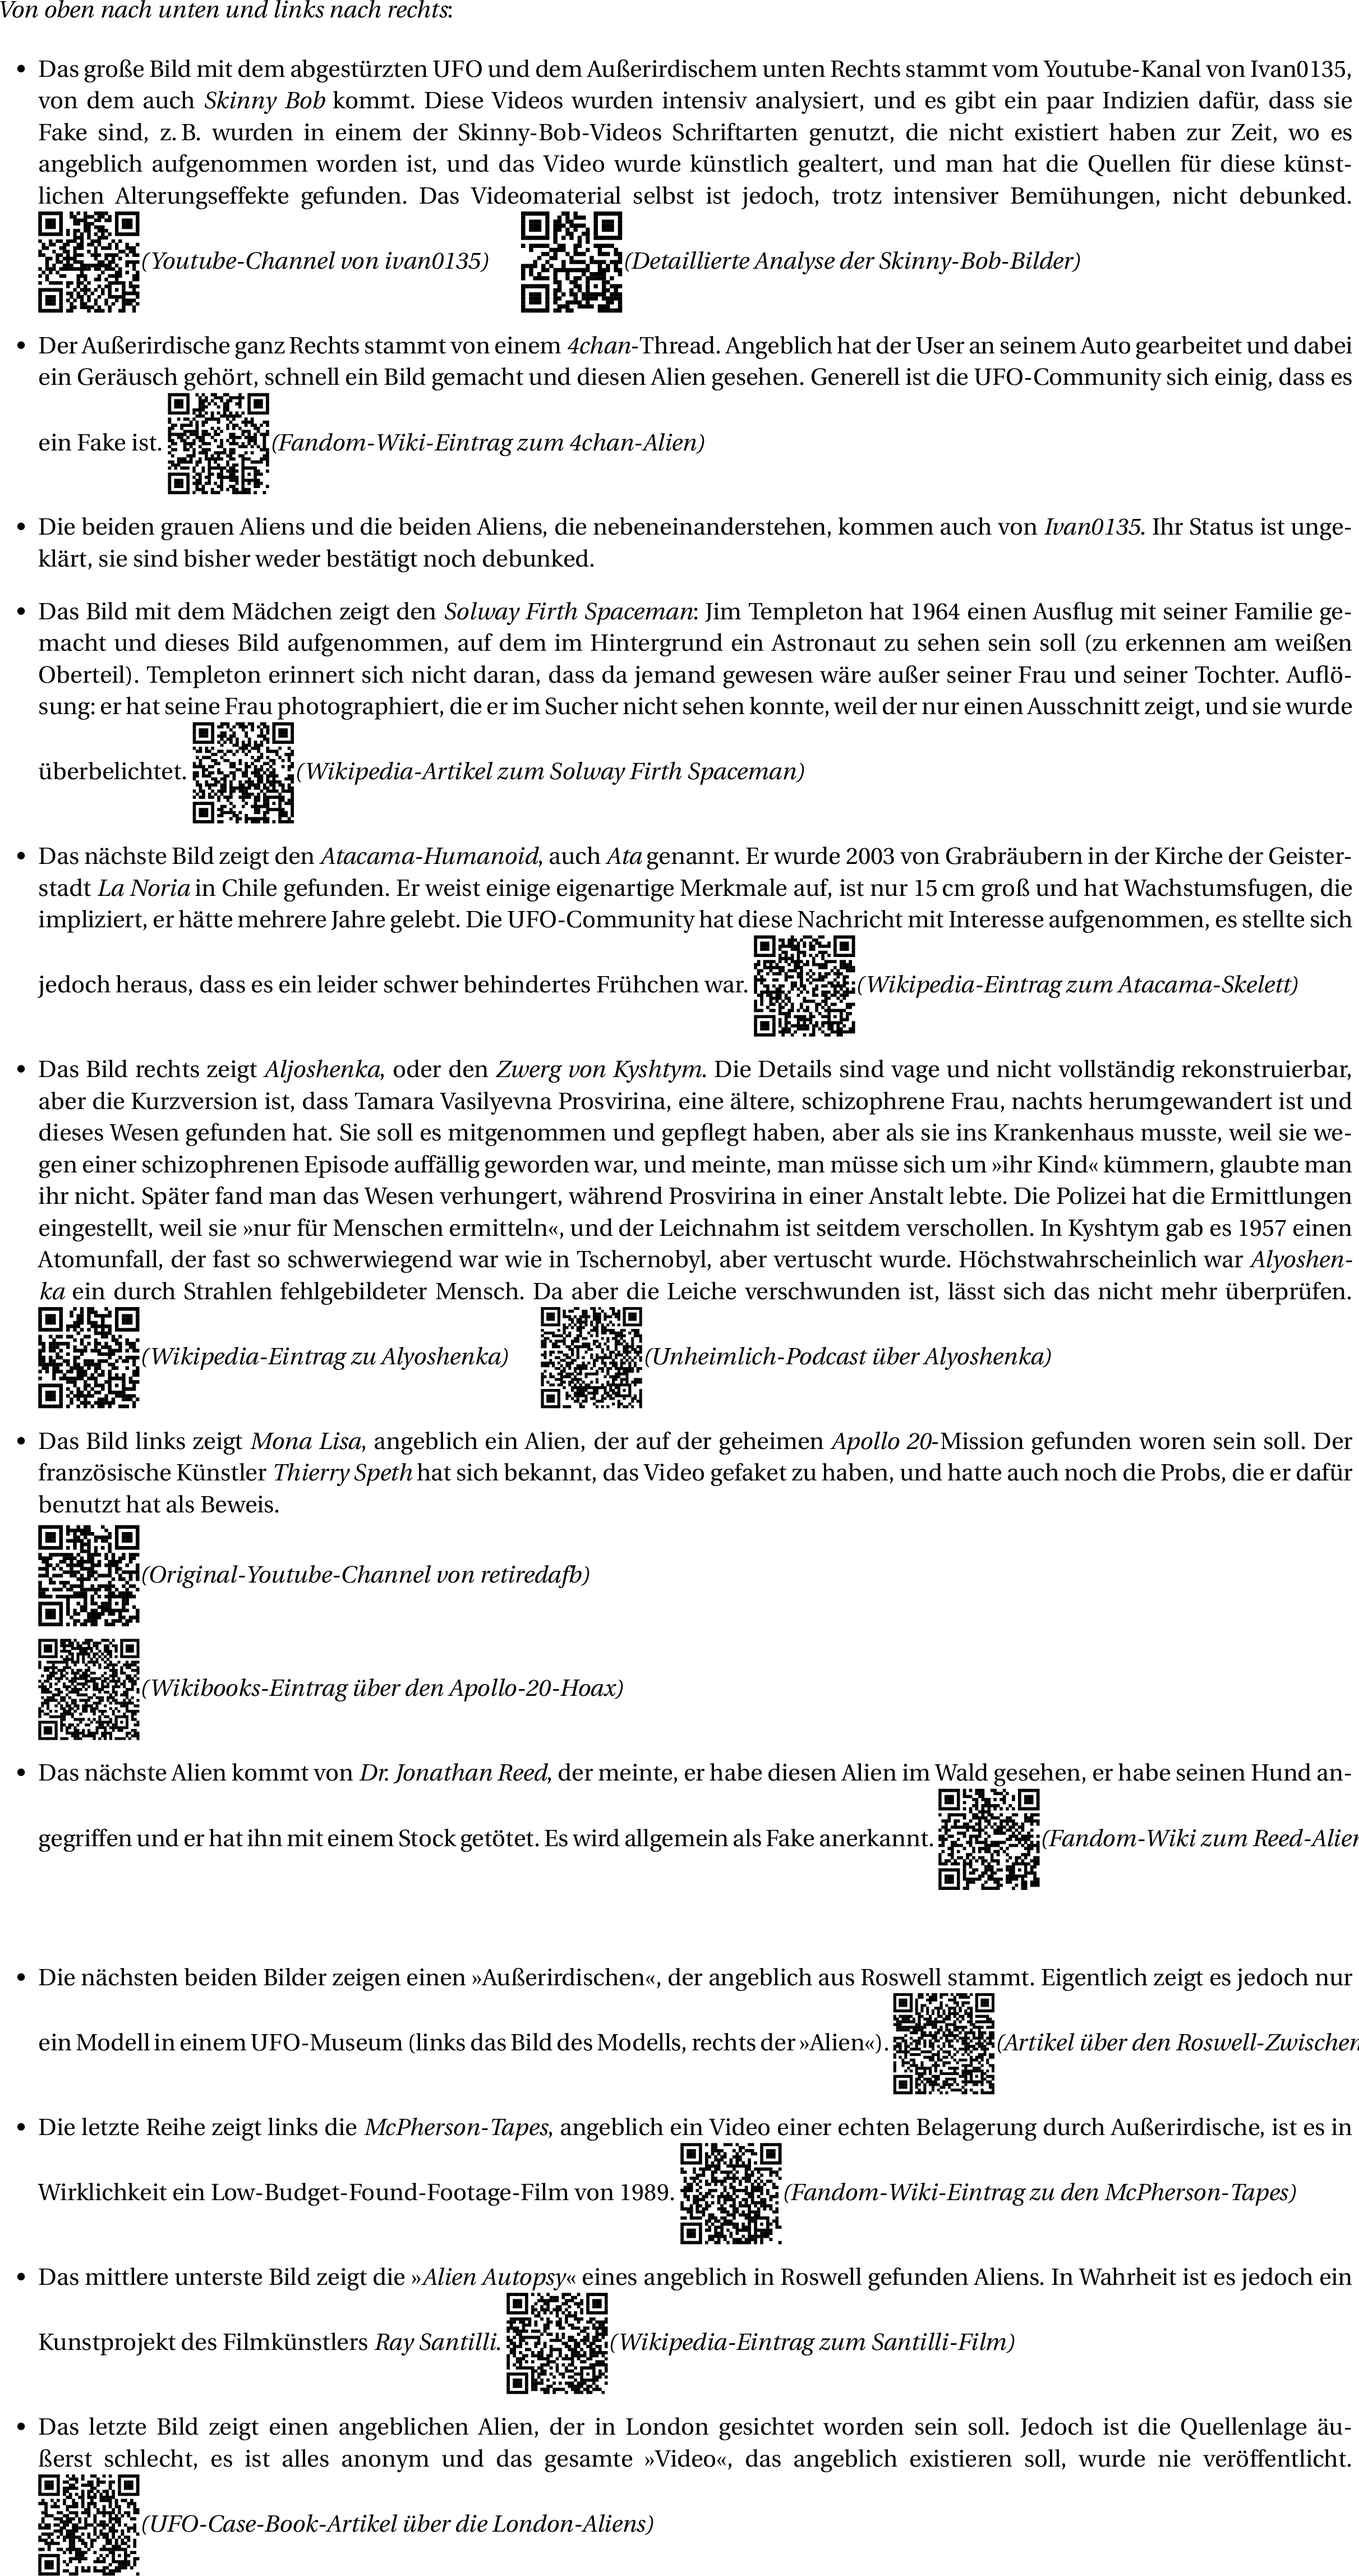
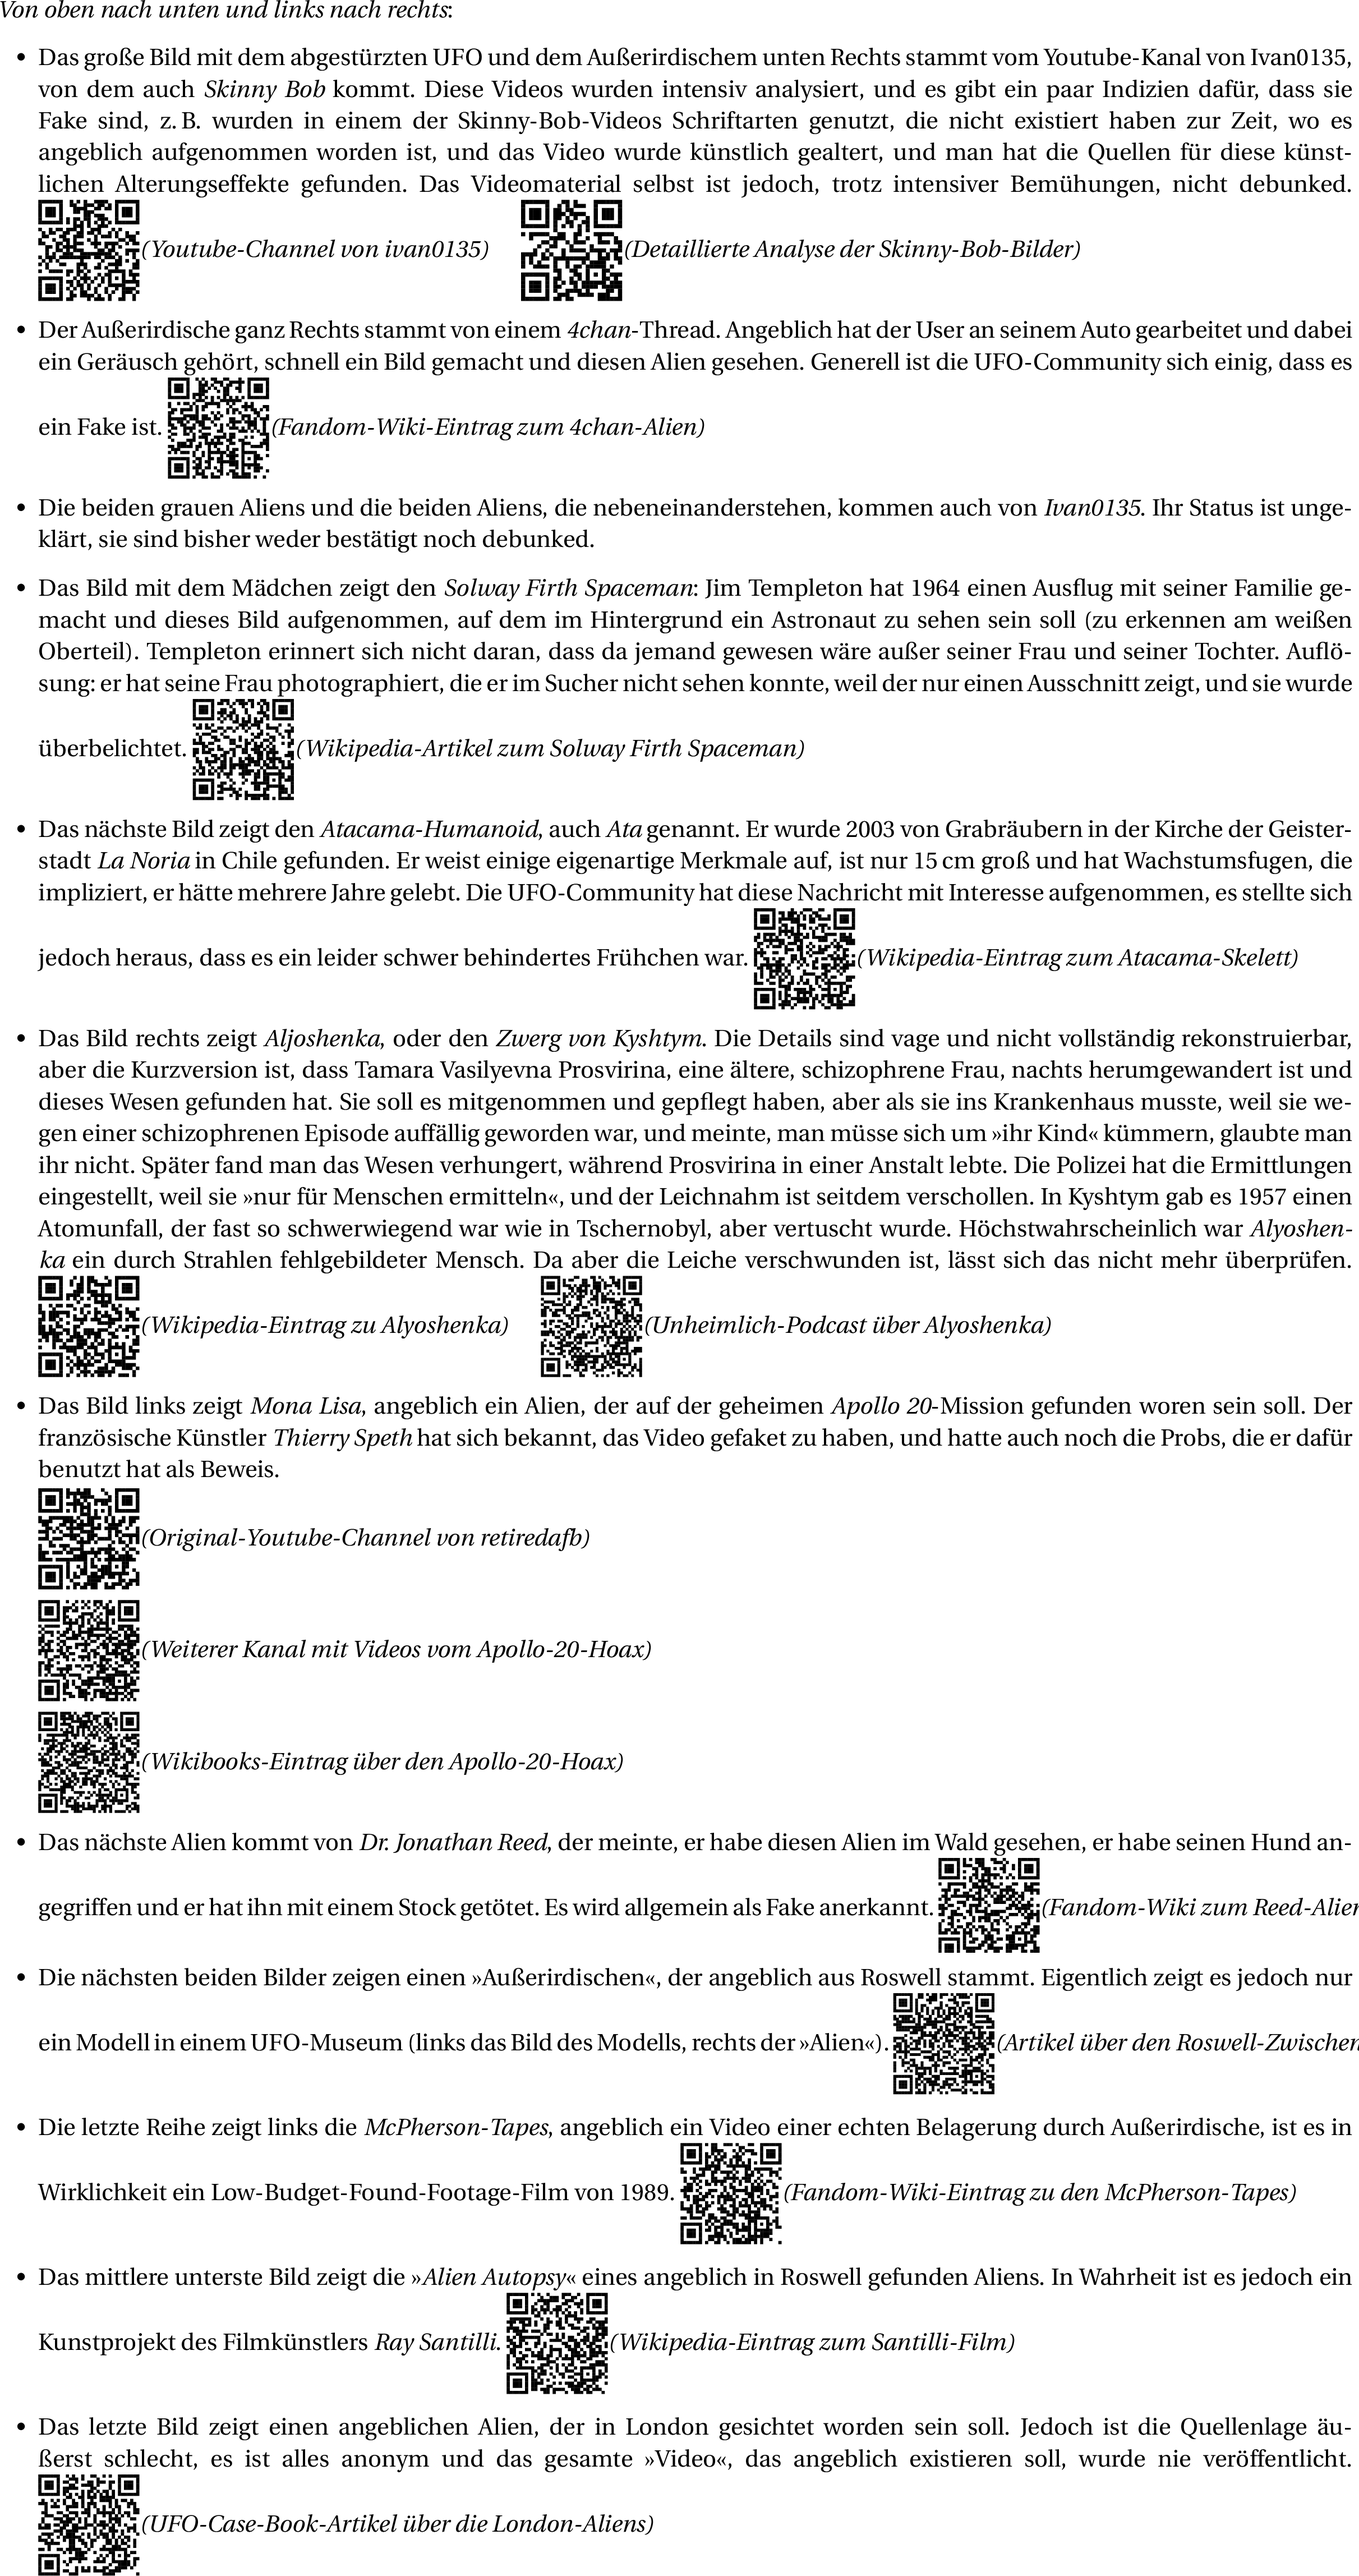
fix

Changed region(s): [[0.031, 0.0, 1.0, 0.7785]]

diff --git a/poster/01/01.tex b/poster/01/01.tex
@@ -22,6 +22,8 @@
 
 		\qr[Original-Youtube-Channel von retiredafb]{https://www.youtube.com/user/retiredafb}
 
+		\qr[Weiterer Kanal mit Videos vom Apollo-20-Hoax]{https://www.youtube.com/@moonwalker1966delta/videos}
+
 		\qr[Wikibooks-Eintrag über den Apollo-20-Hoax]{https://en.wikibooks.org/wiki/User:Moby-Dick4000/Apollo_20_hoax}
 	\item Das nächste Alien kommt von \textit{Dr. Jonathan Reed}, der meinte, er habe diesen Alien im Wald gesehen, er habe seinen Hund angegriffen und er hat ihn mit einem Stock getötet. Es wird allgemein als Fake anerkannt. \qr[Fandom-Wiki zum Reed-Alien-Fall]{https://extraterrestrials.fandom.com/wiki/Reed_Case}
 	\item Die nächsten beiden Bilder zeigen einen \frqq Außerirdischen\flqq, der angeblich aus Roswell stammt. Eigentlich zeigt es jedoch nur ein Modell in einem UFO-Museum (links das Bild des Modells, rechts der \frqq Alien\flqq). \qr[Artikel über den Roswell-Zwischenfall]{https://science.howstuffworks.com/space/aliens-ufos/history-roswell-incident.htm}
